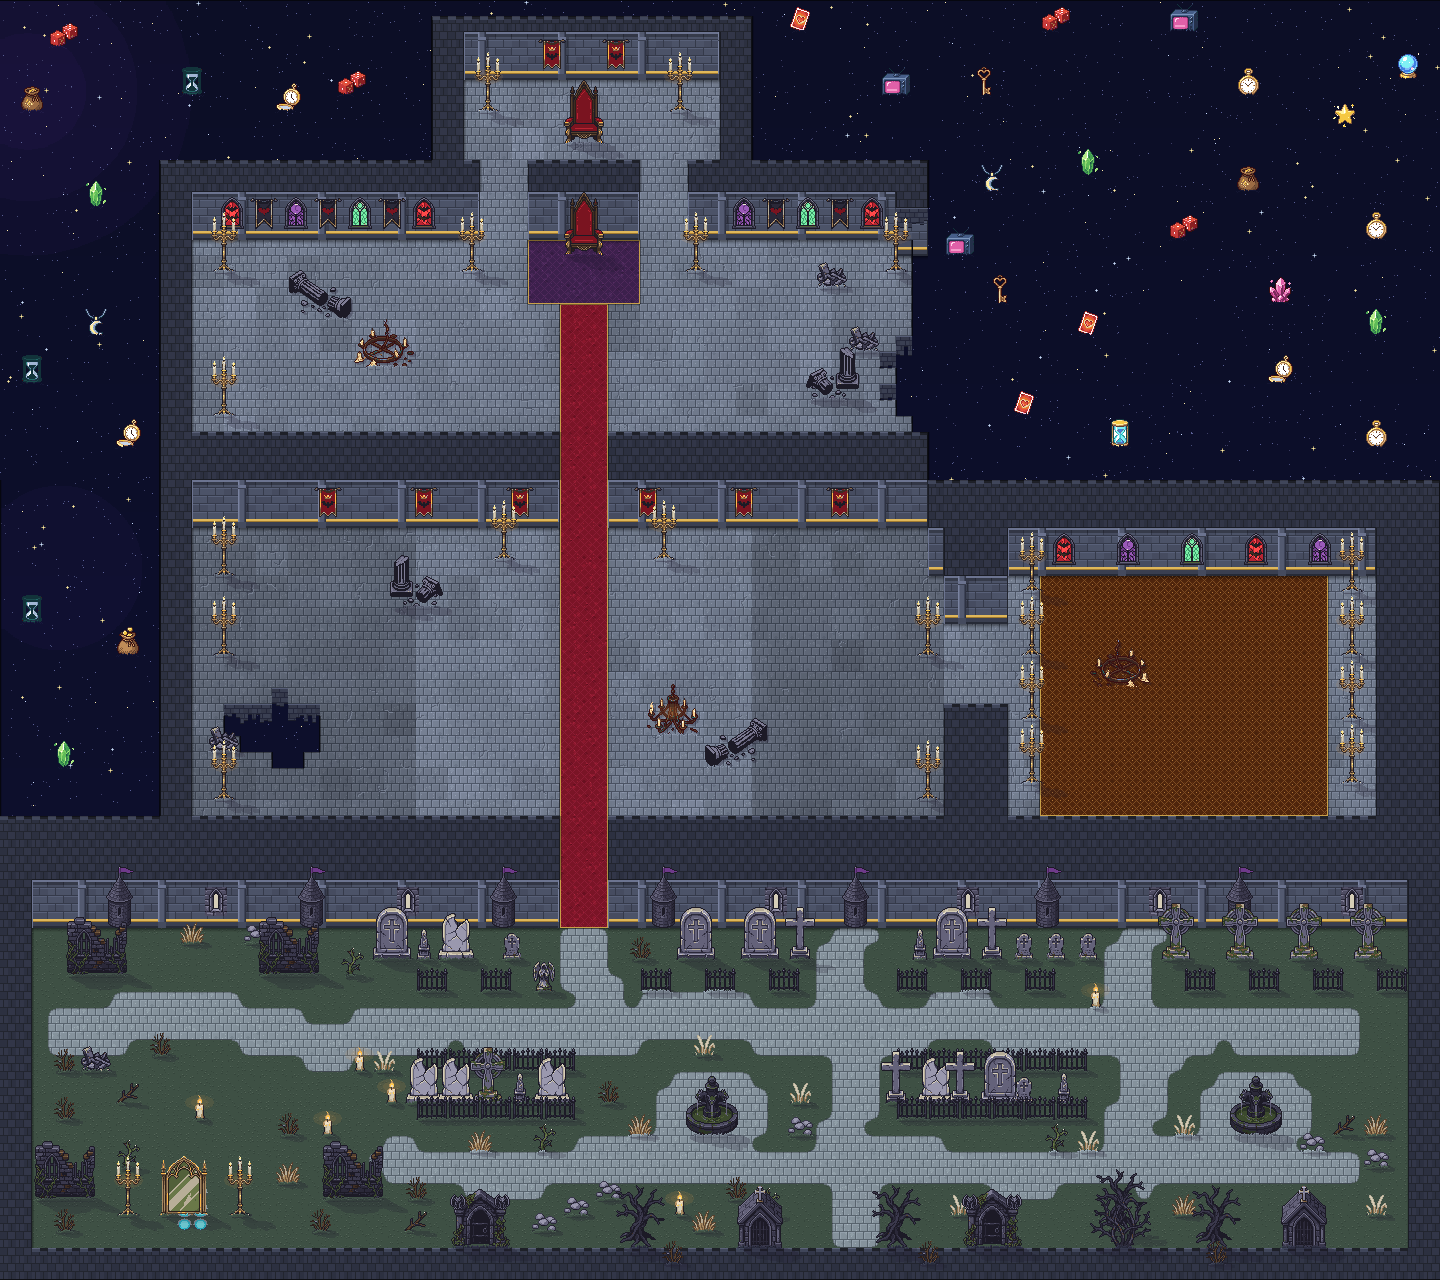
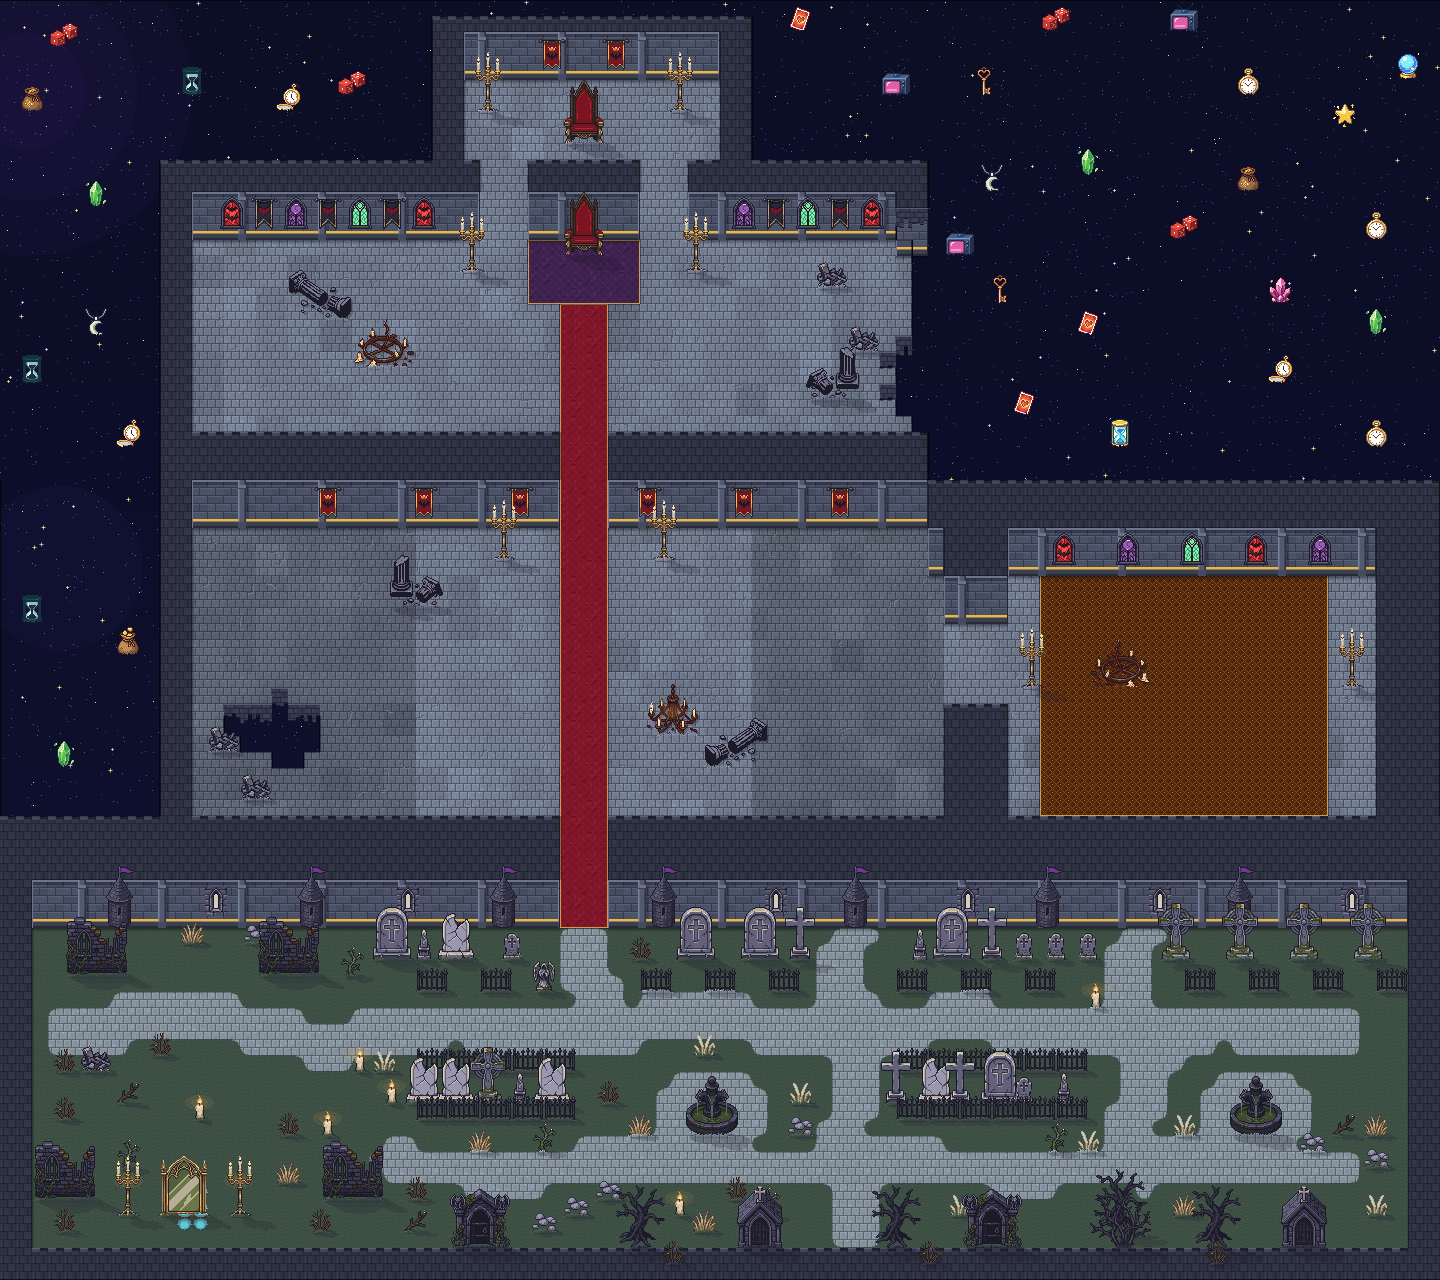
K32: Kandelaber reduziert (24 -> 10), nur noch Paare an Thron, Teppichen, Festsaalmitte und Spiegelportal
Claude-Session: https://claude.ai/code/session_01SaoYHKhnro4LFcPJqjaPsq

diff --git a/tools/karte32_objekte.py b/tools/karte32_objekte.py
@@ -133,8 +133,6 @@ def main():
     setze('karte32/saeule_k/01', 52 * T + 8, fuss(24), {}, spiegeln=True)
     setze('karte32/leuchter/00', 24 * T + 8, fuss(22), {'liegend': True, 'versatz': 2})   # Nutzer: weniger Kronleuchter, kaputt am Boden
     paar(K9 + 'moebel/01', 7 * T, fuss(16), {'anim': 'kerzen'})                      # Kandelaber am Teppich
-    for (x, y) in ((13, 16), (13, 25), (55, 16)):
-        setze(K9 + 'moebel/01', x * T + 8, fuss(y), {'anim': 'kerzen'})
     for (x, y) in ((53, 21), (54, 25), (51, 17)):                     # Truemmer an der abgebrochenen Kante
         setze(K9 + 'wand/45', x * T + 8, fuss(y))
     # ------------------------------------------------------------------ Bannerhalle
@@ -142,15 +140,12 @@ def main():
     setze('karte32/saeule_k/00', 46 * T + 8, fuss(47), {'liegend': True, 'versatz': 2}, spiegeln=True)
     setze('karte32/leuchter/01', 42 * T + 8, fuss(45), {'liegend': True, 'versatz': 2, 'anim': 'kerzen'}, spiegeln=True)
     paar(K9 + 'moebel/01', 5 * T, fuss(34), {'anim': 'kerzen'})
-    for (x, y) in ((13, 35), (13, 40), (13, 49), (57, 35), (57, 40), (57, 49)):
-        setze(K9 + 'moebel/01', x * T + 8, fuss(y), {'anim': 'kerzen'})
     for (x, y) in ((20, 44), (13, 46), (16, 49)):                     # Truemmer am Loch
         setze(K9 + 'wand/45', x * T + 8, fuss(y))
     # ------------------------------------------------------------------ Festsaal (Achse 74.5)
     FA = 74.5 * T
     setze('karte32/leuchter/00', 70 * T + 8, fuss(42), {'liegend': True, 'versatz': 2}, spiegeln=True)
-    for y in (36, 40, 44, 48):
-        paar(K9 + 'moebel/01', 10 * T, fuss(y), {'anim': 'kerzen'}, achse=FA)
+    paar(K9 + 'moebel/01', 10 * T, fuss(42), {'anim': 'kerzen'}, achse=FA)            # Nutzer: Kerzen reduziert
     # ------------------------------------------------------------------ Friedhof
     rnd = random.Random(3232)
     GRAEBER = ['k8/mittel/00', 'k8/mittel/01', 'k8/mittel/02', 'k8/mittel/03', 'wand/21', 'wand/22']
